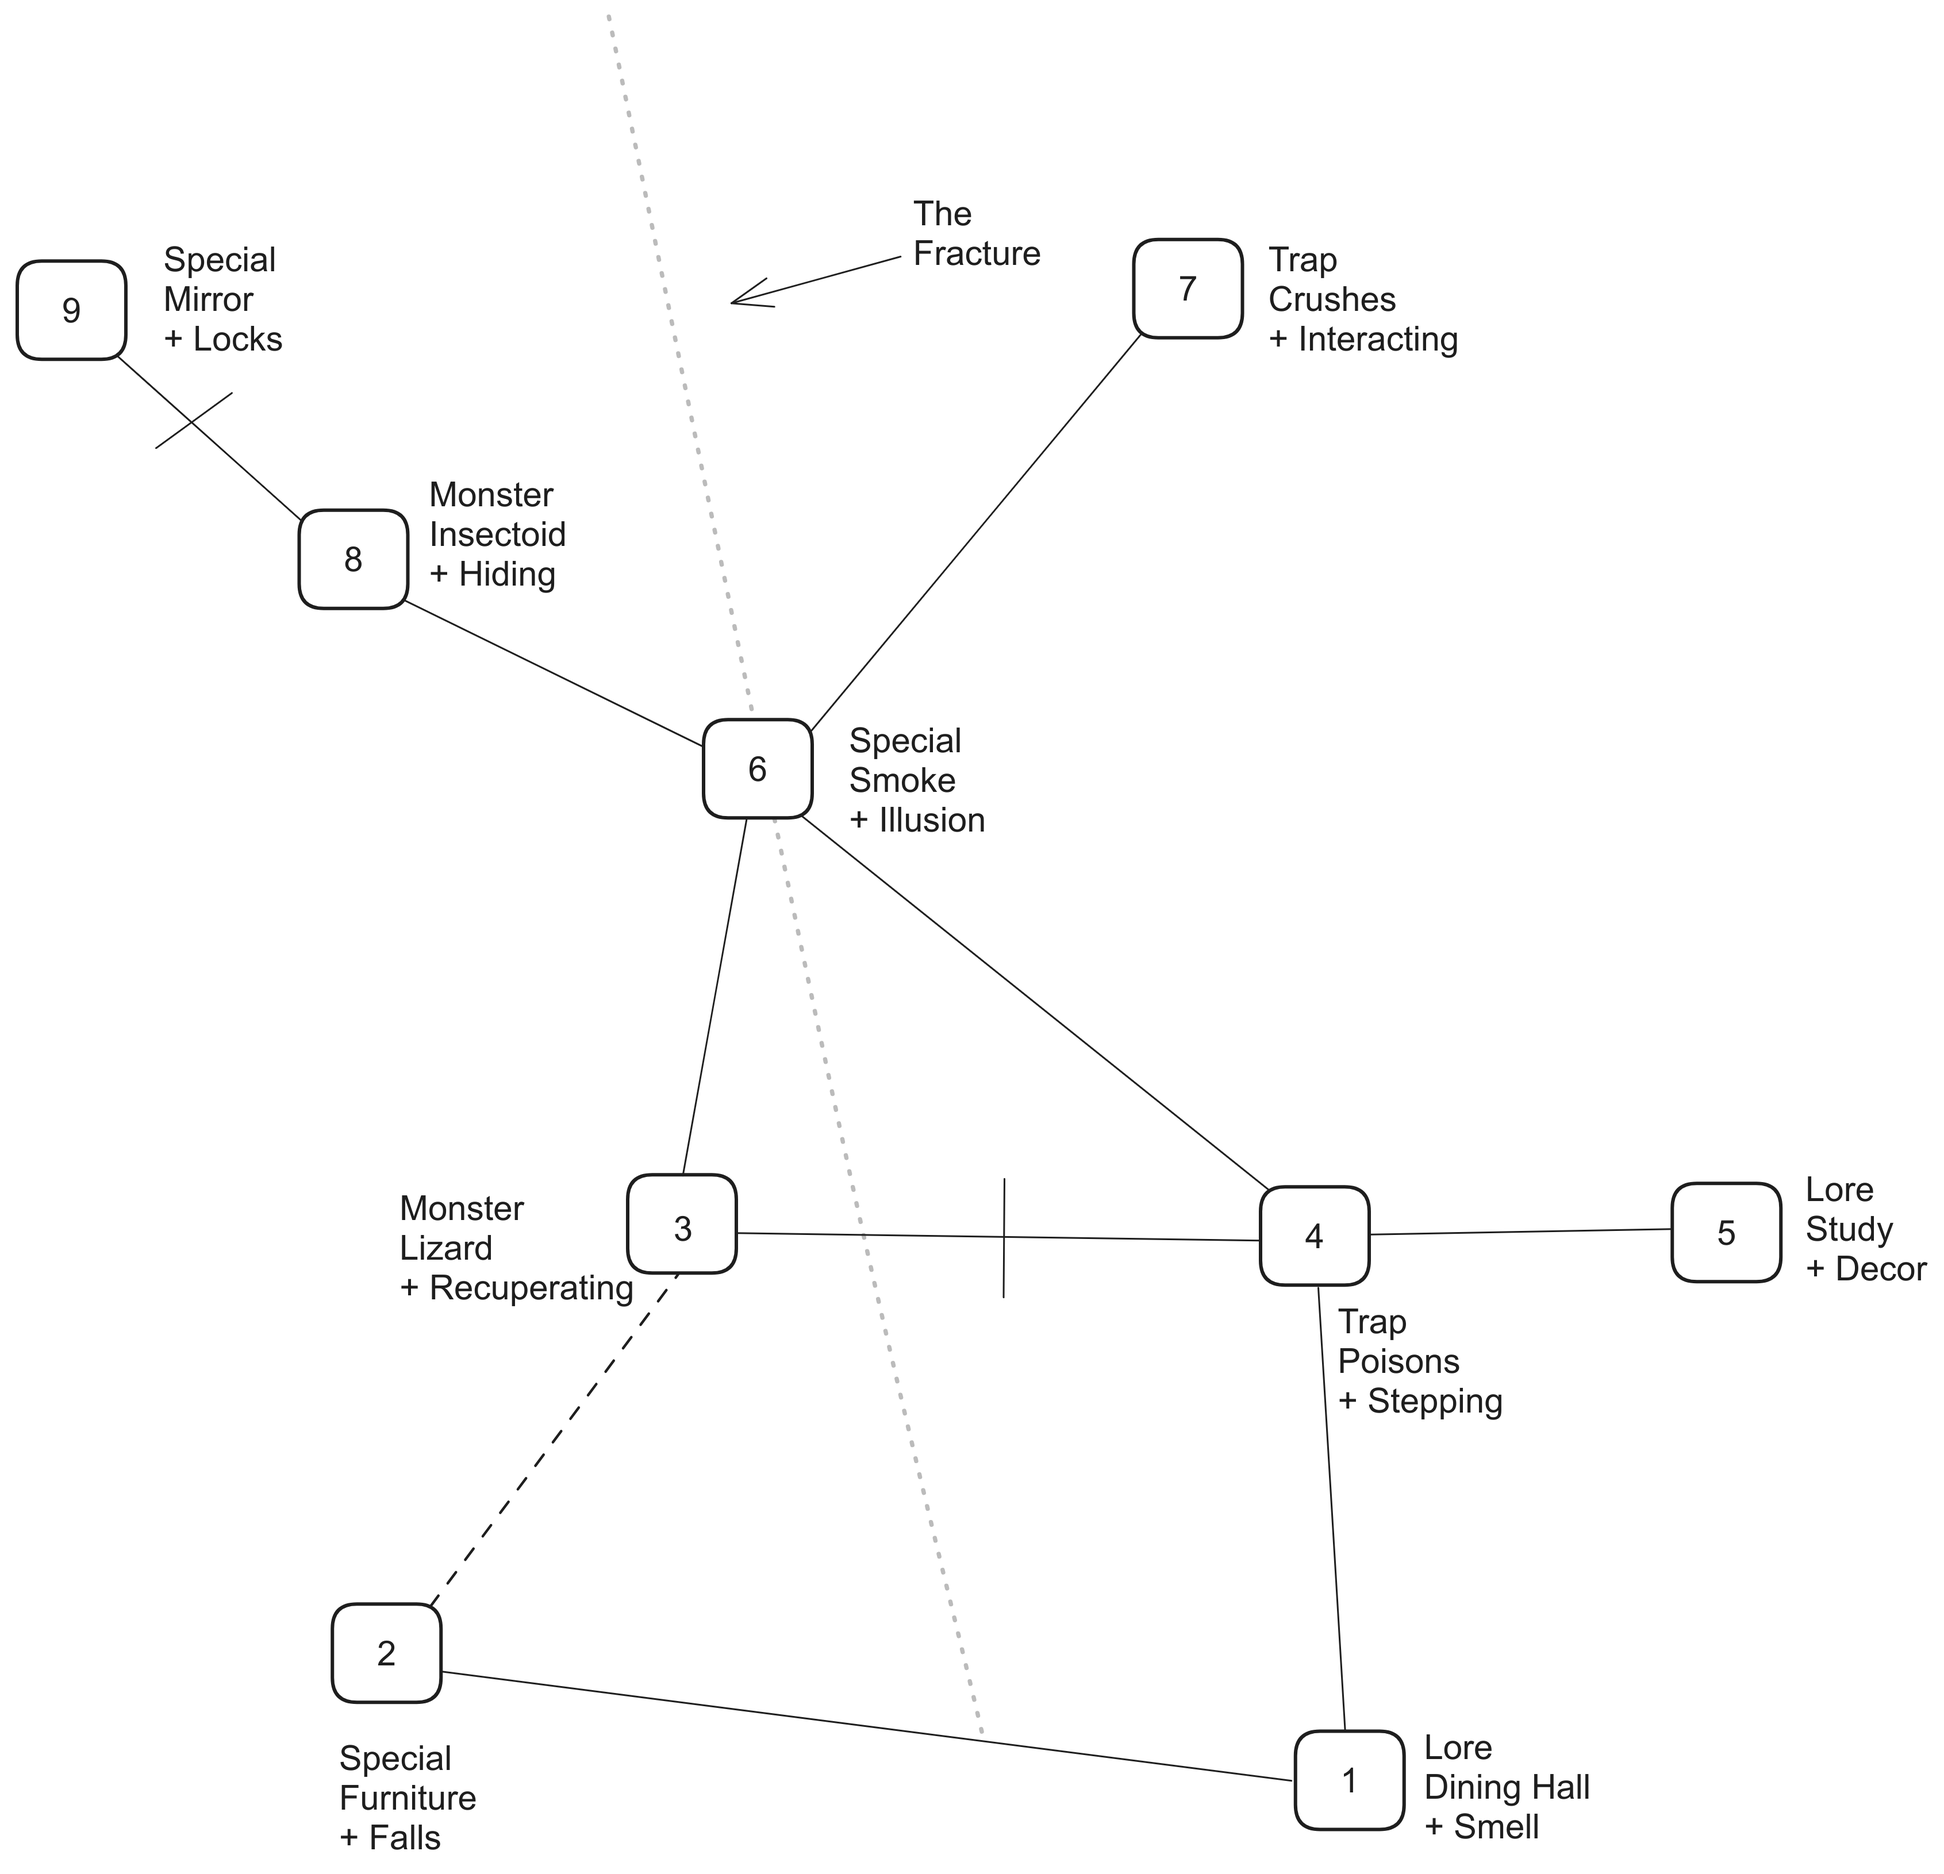
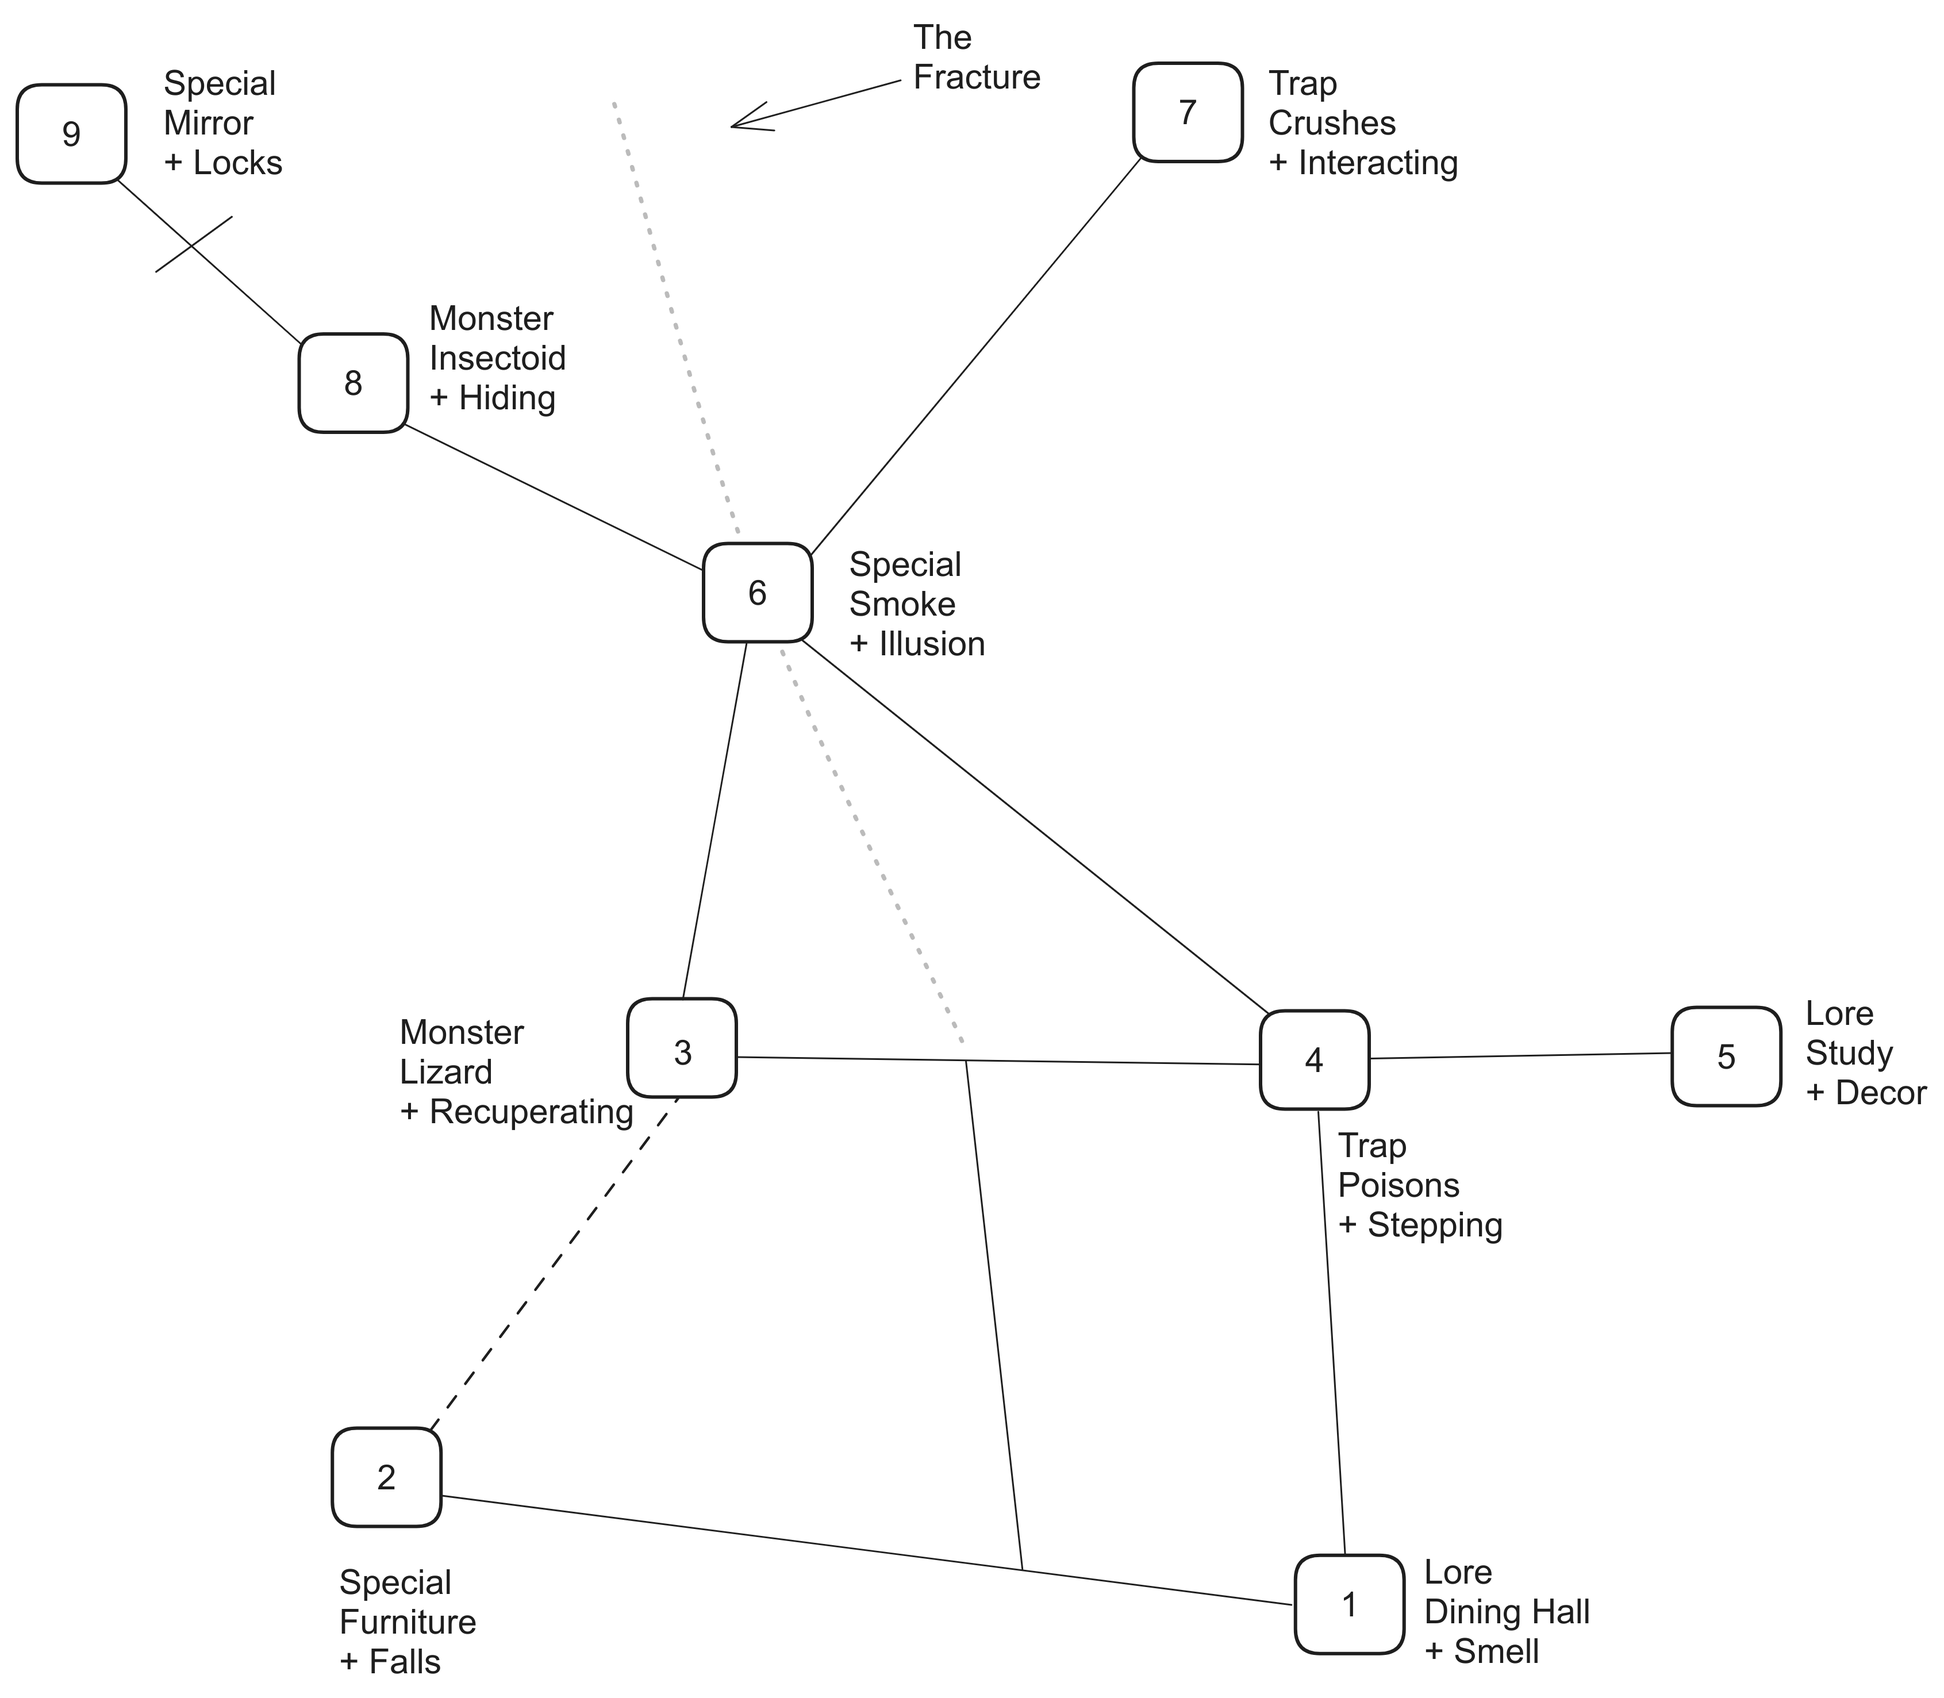
updated dungeon seed example

diff --git a/wip/2e/dungeon-seeds.md b/wip/2e/dungeon-seeds.md
@@ -11,7 +11,7 @@ search_exclude: true
 
 ## Principles
 
-- **Purpose**: Consider what the dungeon's original purpose as well as what it being used for today. Demonstrate a dungeon's history by including signs of its original inhabitants and their goals through. Sometimes a dungeon will have multiple purposes, and these can push against each other to create tension among its denizens.
+- **Purpose**: Consider what the dungeon's original purpose as well as what it being used for today. Demonstrate a dungeon's history by including signs of its original inhabitants and their goals. Sometimes a dungeon will have multiple purposes, and these can push against each other to create tension among its denizens.
 - **Levels**: Levels should represent both increased danger as well as thematic intent. On each level try to push players to weigh the risk of further exploration versus a potential reward.
 - **Layout**: Create multiple entrances and exits, offer multiple routes, design choke points, and provide hiding spots. Add meaningful and obvious information to room entrances and exits.
 - **Verticality**: Incorporate tall rooms, climbable structures, and paths that allow movement around and over obstacles.
@@ -234,7 +234,7 @@ Roll 2d20 and combine the results.
  - Create loops, branching hallways, dead-ends, and shortcuts between rooms.
  - Some paths are Conditional, represented by a crossed line.
  - Some paths are Hidden, represented by a dashed line.
-- Create at least two intersections (crossed lines) with no rooms in between.
+- Create intersections (crossed lines) with no rooms in between.
 
 ### Stock the Rooms
 
@@ -301,7 +301,7 @@ Roll 2d20 and combine the results.
 | **19**  | Undead        | Training     |
 | **20**  | Unusual       | Trapped      |
 
-# Special
+#### Special
 
 Special rooms areas are uncommon areas that feature a hidden or interactive element. This element can be a challenge, an obstacle, a puzzle, or all of the above. These rooms should offer difficult choices with long-term impacts. They might make dungeon exploration easier, but with a serious cost.
 
@@ -377,7 +377,7 @@ _A remote forest temple, cut off from the world by a vast ocean of trees and shr
 
 We then roll on the **Purpose**, **Construction**, and **Ruination** tables and get the following results:
 
-- **Purpose**: The _Protection of rare artifacts_. Built by a _fanatical cult_. 
+- **Purpose**: The _protection of rare artifacts_. Built by a _fanatical cult_. 
 - **Construction**: The entrance is _between a circle of menhirs_, and its foundation is built of the very same _petrified wood_ that surrounds it.
 - **Ruination**: _Divided_ (literally) by _competing rituals_.
 
@@ -407,9 +407,9 @@ _Nestled within a dense, shrouded forest lies a temple made entirely of petrifie
 
 _The Crimson Path believe that if the original Relic were recovered, they might bend its power to destroy their the Azure Legion forever. However every attempt to plumb the temple's depths has been countered by their former brethren. A recent attack has left many of their number dead, and the remaining members have since fled the temple to regroup._
 
-_The Azure Legion feel a great sense of shame over their ancestor's actions believe that if the original Relic were destroyed, the temple would be healed again and their shame expunged. Unfortunately, a long-standing tradition prohibits any members from seeking the Relic, so as to avoid the mistakes of the past._
+_The Azure Legion feel a great sense of shame over their ancestor's actions and believe that if the original Relic were destroyed, the temple would be healed again and their shame expunged. Unfortunately, a long-standing tradition prohibits any members from seeking the Relic, so as to avoid the mistakes of the past._
 
-_In the center of the temple (between **3** and **4**) a massive crack (the Fracture) splits the dungeon in two, and acts as a sort of demilitarized zone. Both Factions realize that only death lies across its threshold._
+_In the center of the temple (between **3** and **4**) a massive crack (the Fracture) splits the dungeon in two, acting as a sort of demilitarized zone. Both Factions realize that only death lies across its threshold._
 
 _Hidden deep within the dungeon is a Relic called the **Woodturn**. It is capable of petrifying trees, wood, or other plant life through mere contact. If not properly contained it could turn an entire forest into a wasteland!_
 
@@ -430,16 +430,16 @@ _Hidden deep within the dungeon is a Relic called the **Woodturn**. It is capabl
 - **Light**: Wall sconces are built into the walls in every room. None are lit.
 - **Smell**: Damp, dirt, and hints of sulfur.
 - **Noise**: Distant shouting, along with an occasional rumbling and creaking throughout.
-- **Build**: The walls and floor are made of a white, petrified wood that is malleable with effort.
+- **Build**: The walls and floor are made of a white, petrified wood.
 
 ### Entrance: Circle of Menhirs
 
 A small circle of 10' tall **stones** are set in a circle atop a **grassy** hill. White **trees** surround the glade on all sides.
 
-- **Grass**: A patch in the center of the circle is browner than the rest.
-  - A trap door is concealed underneath. Petrified wooden steps lead down to **1**.
 - **Stones**: Moss-covered, with thin, ruined writing in an ancient script.
   - An expert in such matters can still determine that the stones are many centuries old.
+- **Grass**: A patch in the center of the circle is browner than the rest.
+  - A trap door is concealed underneath. Petrified wooden steps lead down to **1**.
 - **Trees**: Petrified, and as white as stone.
 
 ### 1 - Dining Hall
